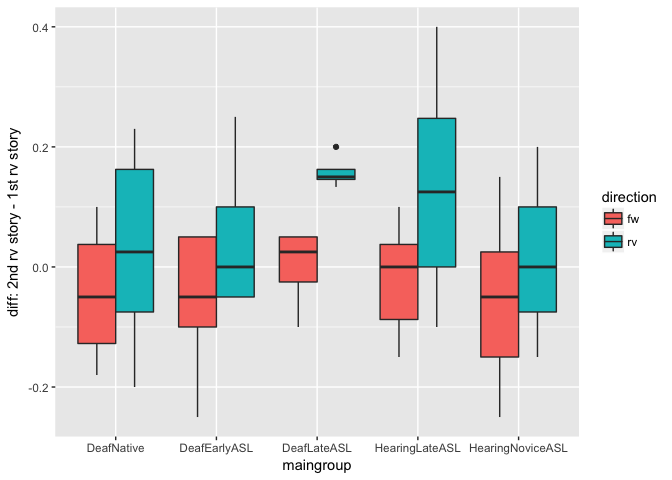
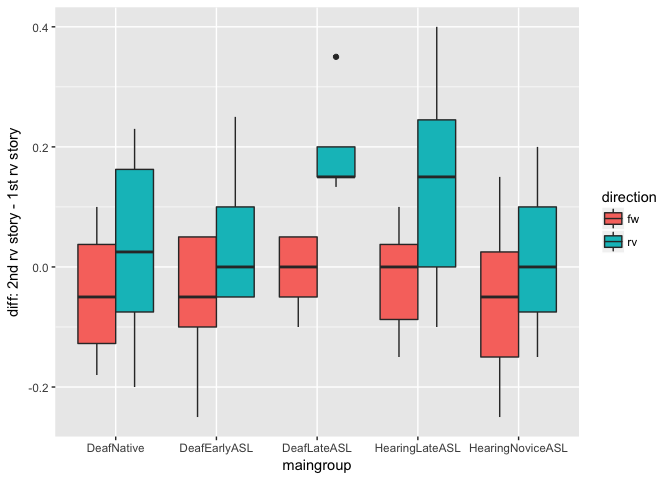
refreshed 04

diff --git a/04resultsection.md b/04resultsection.md
@@ -1,7 +1,7 @@
 Results Section (study1adults)
 ================
 Adam Stone, PhD
-09-22-2017
+10-04-2017
 
 -   [Refreshing Ourselves](#refreshing-ourselves)
 -   [Participant Characteristics](#participant-characteristics)
@@ -301,13 +301,13 @@ DeafEarlyASL
 DeafLateASL
 </td>
 <td style="text-align:right;">
-6
+7
 </td>
 <td style="text-align:right;">
-37.2
+37.4
 </td>
 <td style="text-align:right;">
-6.6
+6.1
 </td>
 <td style="text-align:right;">
 5.0
@@ -316,16 +316,16 @@ DeafLateASL
 0.0
 </td>
 <td style="text-align:right;">
-23.7
+23.3
 </td>
 <td style="text-align:right;">
-6.2
+5.7
 </td>
 <td style="text-align:right;">
-12.8
+13.6
 </td>
 <td style="text-align:right;">
-1.7
+2.5
 </td>
 </tr>
 <tr>
@@ -333,28 +333,28 @@ DeafLateASL
 HearingLateASL
 </td>
 <td style="text-align:right;">
-11
+12
 </td>
 <td style="text-align:right;">
 28.9
 </td>
 <td style="text-align:right;">
-6.5
+6.2
 </td>
 <td style="text-align:right;">
-4.7
+4.6
 </td>
 <td style="text-align:right;">
 0.5
 </td>
 <td style="text-align:right;">
-11.5
+11.8
 </td>
 <td style="text-align:right;">
-5.0
+4.8
 </td>
 <td style="text-align:right;">
-17.5
+17.2
 </td>
 <td style="text-align:right;">
 3.4
@@ -501,7 +501,7 @@ DeafEarlyASL
 DeafLateASL
 </td>
 <td style="text-align:right;">
-6
+7
 </td>
 <td style="text-align:right;">
 0.87
@@ -510,7 +510,7 @@ DeafLateASL
 0.07
 </td>
 <td style="text-align:right;">
-0.71
+0.72
 </td>
 <td style="text-align:right;">
 0.04
@@ -521,16 +521,16 @@ DeafLateASL
 HearingLateASL
 </td>
 <td style="text-align:right;">
-11
+12
 </td>
 <td style="text-align:right;">
 0.87
 </td>
 <td style="text-align:right;">
-0.08
+0.07
 </td>
 <td style="text-align:right;">
-0.68
+0.69
 </td>
 <td style="text-align:right;">
 0.09
@@ -604,7 +604,7 @@ ggplot(data.aoionly,aes(aoi,percent,fill=direction)) +
   theme(axis.text.x=element_text(angle=45,hjust=1))
 ```
 
-    ## Warning: Removed 311 rows containing non-finite values (stat_boxplot).
+    ## Warning: Removed 326 rows containing non-finite values (stat_boxplot).
 
 ![](04resultsection_files/figure-markdown_github-ascii_identifiers/unnamed-chunk-6-1.png)
 
@@ -638,7 +638,7 @@ ggplot(data.five, aes(x = maingroup, y = aoi)) +
   geom_tile(aes(fill=mean),color="lightgray",na.rm=TRUE) + 
 #  scale_fill_gradient(low = "lightblue",high = "steelblue") +
 #  scale_fill_distiller(type="div", palette = "RdYlBu") +
-  scale_fill_viridis(option = "inferno") +
+  scale_fill_viridis(option = "magma", direction=-1) +
   facet_wrap("direction") +
   theme(axis.text.x=element_text(angle=45,hjust=1))
 ```
@@ -651,7 +651,7 @@ Also of interest is how the FaceChest Index changes. And it shows us there's def
 data.indexonly <- data %>%
   filter(aoi == "facechest")
 ggplot(data.indexonly,aes(aoi,percent,fill=direction)) + 
-  geom_violin() +
+  geom_boxplot() +
   scale_y_continuous(limits=c(-1,1)) +
   theme(axis.text.x=element_text(angle=45,hjust=1))
 ```
@@ -701,12 +701,12 @@ corstarsl(data.acc) # Use the awesome function!
 
     ##                 aoasl  signyrs selfrate     age acc.forward acc.reversed
     ## aoasl                                                                   
-    ## signyrs      -0.80***                                                   
-    ## selfrate     -0.53***  0.71***                                          
-    ## age           -0.35*   0.84***  0.63***                                 
-    ## acc.forward    -0.09     0.28   0.46**   0.34*                          
-    ## acc.reversed  -0.35*    0.30*   0.40**    0.15       0.37*              
-    ## acc.effect      0.27    -0.07    -0.04    0.11      0.41**      -0.69***
+    ## signyrs      -0.79***                                                   
+    ## selfrate     -0.52***  0.71***                                          
+    ## age           -0.32*   0.84***  0.63***                                 
+    ## acc.forward    -0.08     0.28   0.45**   0.34*                          
+    ## acc.reversed  -0.32*    0.29*   0.40**    0.17      0.38**              
+    ## acc.effect      0.26    -0.07    -0.04    0.10      0.40**      -0.69***
 
 ``` r
 # Gather the AOIs we want
@@ -753,16 +753,16 @@ corstarsl(data.fw)
 
     ##                acc    aoasl  signyrs selfrate     age     eyes    mouth
     ## acc                                                                    
-    ## aoasl       -0.09                                                      
-    ## signyrs      0.28  -0.80***                                            
-    ## selfrate   0.46**  -0.53***  0.71***                                   
-    ## age         0.34*   -0.35*   0.84***  0.63***                          
-    ## eyes        -0.22     0.16    -0.15    -0.12   -0.08                   
-    ## mouth        0.19    -0.14     0.25     0.10    0.24  -0.61***         
-    ## chin         0.05    -0.14    -0.01     0.13   -0.13  -0.38**  -0.46** 
-    ## face         0.10    -0.25   0.38**    0.30*   0.35*    -0.09   0.46** 
-    ## chest       -0.03     0.16   -0.30*   -0.30*  -0.33*    -0.09   -0.32* 
-    ## facechest    0.03    -0.17    0.31*    0.30*   0.33*     0.09    0.32* 
+    ## aoasl       -0.08                                                      
+    ## signyrs      0.28  -0.79***                                            
+    ## selfrate   0.45**  -0.52***  0.71***                                   
+    ## age         0.34*   -0.32*   0.84***  0.63***                          
+    ## eyes        -0.19     0.16    -0.16    -0.14   -0.08                   
+    ## mouth        0.17    -0.13     0.26     0.13    0.25  -0.64***         
+    ## chin         0.03    -0.15    -0.01     0.12   -0.14  -0.38**  -0.42** 
+    ## face         0.10    -0.24   0.38**    0.31*   0.36*    -0.12   0.47***
+    ## chest       -0.04     0.15   -0.30*   -0.30*  -0.34*    -0.10   -0.29* 
+    ## facechest    0.04    -0.15    0.30*    0.30*   0.34*     0.11    0.29* 
     ##             chin     face    chest
     ## acc                               
     ## aoasl                             
@@ -772,9 +772,9 @@ corstarsl(data.fw)
     ## eyes                              
     ## mouth                             
     ## chin                              
-    ## face      -0.19                   
-    ## chest      0.27  -0.93***         
-    ## facechest -0.27   0.94*** -1.00***
+    ## face      -0.18                   
+    ## chest      0.28  -0.92***         
+    ## facechest -0.28   0.93*** -1.00***
 
 Reversed Correlations
 ---------------------
@@ -795,28 +795,28 @@ corstarsl(data.rv)
 
     ##                acc    aoasl  signyrs selfrate      age     eyes    mouth
     ## acc                                                                     
-    ## aoasl      -0.35*                                                       
-    ## signyrs     0.30*  -0.80***                                             
-    ## selfrate   0.40**  -0.53***  0.71***                                    
-    ## age          0.15   -0.35*   0.84***  0.63***                           
-    ## eyes        -0.15     0.12    -0.01     0.06     0.11                   
-    ## mouth        0.16    -0.16     0.28     0.12     0.27  -0.63***         
-    ## chin         0.04    -0.06    -0.14    -0.07    -0.26  -0.47**  -0.44** 
-    ## face         0.27   -0.30*   0.40**     0.28    0.35*    -0.14   0.58***
-    ## chest       -0.20    0.33*  -0.44**  -0.41**  -0.38**    -0.17   -0.36* 
-    ## facechest    0.22   -0.34*   0.44**   0.40**    0.38*     0.15    0.37* 
-    ##             chin     face    chest
-    ## acc                               
-    ## aoasl                             
-    ## signyrs                           
-    ## selfrate                          
-    ## age                               
-    ## eyes                              
-    ## mouth                             
-    ## chin                              
-    ## face      -0.13                   
-    ## chest      0.29  -0.79***         
-    ## facechest -0.28   0.81*** -1.00***
+    ## aoasl      -0.32*                                                       
+    ## signyrs     0.29*  -0.79***                                             
+    ## selfrate   0.40**  -0.51***  0.71***                                    
+    ## age          0.17   -0.32*   0.83***  0.63***                           
+    ## eyes        -0.14     0.11    -0.01     0.04     0.09                   
+    ## mouth        0.15    -0.14     0.28     0.14     0.29  -0.64***         
+    ## chin         0.02    -0.07    -0.13    -0.07    -0.27  -0.46**  -0.42** 
+    ## face         0.21    -0.28   0.38**    0.30*    0.34*    -0.19   0.61***
+    ## chest       -0.20    0.32*  -0.44**  -0.42**  -0.39**    -0.16   -0.37* 
+    ## facechest    0.21   -0.33*   0.44**   0.41**   0.38**     0.13   0.40** 
+    ##              chin     face    chest
+    ## acc                                
+    ## aoasl                              
+    ## signyrs                            
+    ## selfrate                           
+    ## age                                
+    ## eyes                               
+    ## mouth                              
+    ## chin                               
+    ## face       -0.09                   
+    ## chest      0.29*  -0.73***         
+    ## facechest  -0.27   0.79*** -0.99***
 
 Summary
 -------
@@ -886,9 +886,9 @@ left_join(aov.lex.all.tidy,aov.gaze.all.tidy,by="term") %>%
 ```
 
     ##                  term  F.acc P.acc F.facechest P.facechest
-    ## 1           maingroup  3.565 0.010       5.136       0.001
-    ## 2           direction 61.539 0.000       2.225       0.140
-    ## 3 maingroup:direction  1.186 0.323       0.683       0.605
+    ## 1           maingroup  3.872 0.006       5.379       0.001
+    ## 2           direction 64.384 0.000       2.817       0.097
+    ## 3 maingroup:direction  1.125 0.350       0.740       0.568
     ## 4           Residuals     NA    NA          NA          NA
 
 ``` r
@@ -932,7 +932,7 @@ left_join(aov.lex.fw.tidy,aov.gaze.fw.tidy,by="term") %>%
 ```
 
     ##        term F.acc P.acc F.facechest P.facechest
-    ## 1 maingroup 1.956 0.119       1.696       0.169
+    ## 1 maingroup  2.16  0.09       1.852       0.136
     ## 2 Residuals    NA    NA          NA          NA
 
 ``` r
@@ -976,7 +976,7 @@ left_join(aov.lex.rv.tidy,aov.gaze.rv.tidy,by="term") %>%
 ```
 
     ##        term F.acc P.acc F.facechest P.facechest
-    ## 1 maingroup   2.7 0.044       3.586       0.014
+    ## 1 maingroup 2.773 0.039       3.709       0.011
     ## 2 Residuals    NA    NA          NA          NA
 
 ``` r
@@ -1041,7 +1041,7 @@ accdiff$maingroup = factor(accdiff$maingroup,levels=c("DeafNative","DeafEarlyASL
 ggplot(accdiff,aes(x=maingroup,y=diff,fill=direction)) + geom_boxplot() + ylab("diff: 2nd rv story - 1st rv story")
 ```
 
-    ## Warning: Removed 15 rows containing non-finite values (stat_boxplot).
+    ## Warning: Removed 16 rows containing non-finite values (stat_boxplot).
 
 ![](04resultsection_files/figure-markdown_github-ascii_identifiers/unnamed-chunk-18-1.png)
 
@@ -1066,3 +1066,83 @@ Here is an example of what I had noted to myself previously, which is not curren
 Then, maybe we can have a section called “Hearing Status” and in this paragraph say what happens when we compare hearing and deaf, using the same range of AoA, excluding hearing Novice. Or maybe separate regressions for hearing and deaf groups, looking at AoA, AOI’s, and lexical recall, to examine the relationship between the three. I don't know.
 
 Do you find that NATIVE signers pretty much look at the same place for forward and reversed but that the novice signers show greater dispersion of gaze points for reversed than forward (like more on the chest, by way of lower face looking percent)? Because I always thought that experts are already using their efficient gaze pattern, nothing throws this off…. But novice are easily “thrown off”, gaze-wise. They have very little tolerance of phonetic variation. So they might get really good at understanding their own ASL teacher, and then give them a new variant of a signer, they start to look at the signers’ hands maybe. The same thing happens for the reversed stories, maybe.
+
+``` r
+# Me trying to run models for eye behavior -> lexical accuracy
+datafc <- dataoriginal
+model <- lmer(acc ~ percent * signyrs + (1|id) + (1|story), data = filter(datafc,aoi=="mouth" & direction=="forward"))
+summary(model)
+```
+
+    ## Linear mixed model fit by REML t-tests use Satterthwaite approximations
+    ##   to degrees of freedom [lmerMod]
+    ## Formula: acc ~ percent * signyrs + (1 | id) + (1 | story)
+    ##    Data: filter(datafc, aoi == "mouth" & direction == "forward")
+    ## 
+    ## REML criterion at convergence: -154.3
+    ## 
+    ## Scaled residuals: 
+    ##      Min       1Q   Median       3Q      Max 
+    ## -1.66945 -0.56054 -0.07572  0.60179  1.53674 
+    ## 
+    ## Random effects:
+    ##  Groups   Name        Variance Std.Dev.
+    ##  id       (Intercept) 0.004825 0.06946 
+    ##  story    (Intercept) 0.001259 0.03549 
+    ##  Residual             0.003569 0.05974 
+    ## Number of obs: 89, groups:  id, 48; story, 4
+    ## 
+    ## Fixed effects:
+    ##                  Estimate Std. Error        df t value Pr(>|t|)    
+    ## (Intercept)      0.873182   0.048300 54.870000  18.078   <2e-16 ***
+    ## percent         -0.114207   0.065749 82.670000  -1.737   0.0861 .  
+    ## signyrs         -0.002512   0.002348 83.140000  -1.070   0.2877    
+    ## percent:signyrs  0.006484   0.003159 78.910000   2.052   0.0435 *  
+    ## ---
+    ## Signif. codes:  0 '***' 0.001 '**' 0.01 '*' 0.05 '.' 0.1 ' ' 1
+    ## 
+    ## Correlation of Fixed Effects:
+    ##             (Intr) percnt sgnyrs
+    ## percent     -0.823              
+    ## signyrs     -0.746  0.696       
+    ## prcnt:sgnyr  0.705 -0.811 -0.918
+
+``` r
+model <- lmer(percent ~ direction + (1|id), data = filter(datafc,aoi=="mouth"))
+summary(model) 
+```
+
+    ## Linear mixed model fit by REML t-tests use Satterthwaite approximations
+    ##   to degrees of freedom [lmerMod]
+    ## Formula: percent ~ direction + (1 | id)
+    ##    Data: filter(datafc, aoi == "mouth")
+    ## 
+    ## REML criterion at convergence: -7.1
+    ## 
+    ## Scaled residuals: 
+    ##      Min       1Q   Median       3Q      Max 
+    ## -2.63522 -0.49785  0.09266  0.60598  2.34197 
+    ## 
+    ## Random effects:
+    ##  Groups   Name        Variance Std.Dev.
+    ##  id       (Intercept) 0.05078  0.2254  
+    ##  Residual             0.03213  0.1793  
+    ## Number of obs: 179, groups:  id, 48
+    ## 
+    ## Fixed effects:
+    ##                    Estimate Std. Error        df t value Pr(>|t|)    
+    ## (Intercept)         0.63741    0.03764  60.48000  16.934  < 2e-16 ***
+    ## directionreversed  -0.09606    0.02702 131.06000  -3.555 0.000526 ***
+    ## ---
+    ## Signif. codes:  0 '***' 0.001 '**' 0.01 '*' 0.05 '.' 0.1 ' ' 1
+    ## 
+    ## Correlation of Fixed Effects:
+    ##             (Intr)
+    ## dirctnrvrsd -0.350
+
+``` r
+# plot(model)
+# library(ggfortify)
+# autoplot(model2)
+# autoplot(model2,which=1:6,data = datafc,colour='direction',label.size=3)
+```
